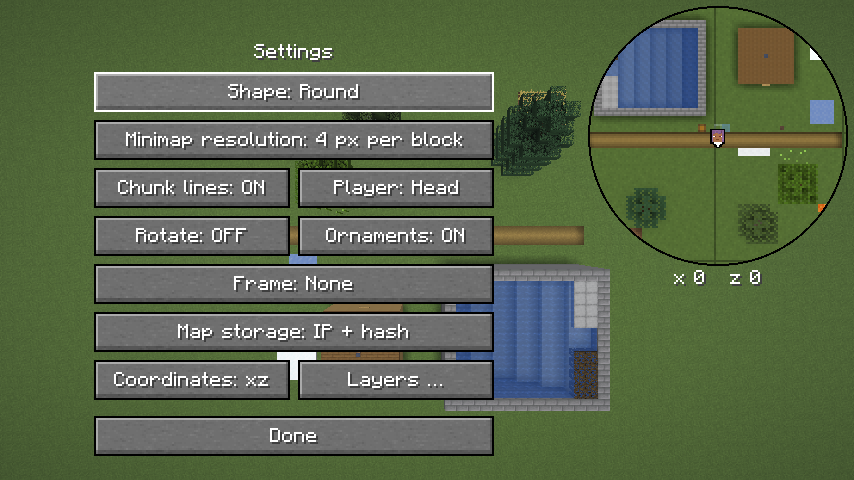
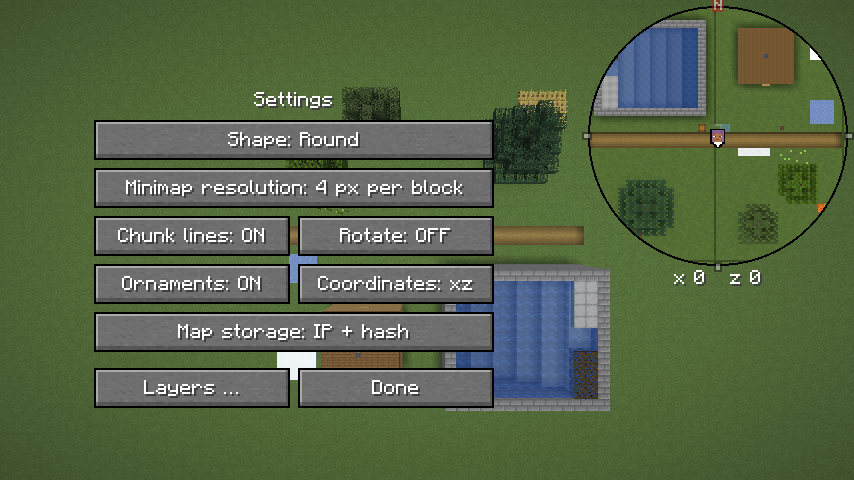
Doku, Bilder und Version 0.2.28 zu #105

diff --git a/docs/minimap.md b/docs/minimap.md
@@ -1,6 +1,6 @@
 ---
 title: Minimap
-description: Bedienung über das Menü hinter /hmap und das Untermenü „Einstellungen …“, Chunklinien, Drehen mit der Blickrichtung, Koordinaten unter der Minimap, der eigene Spieler in drei Darstellungen, Form, Lage und Grösse, Mitspieler, Bewegung zwischen zwei Ticks; wie der Mod die Minimap zeichnet, welcher Block oben liegt, Flächen aus dem Tesselator des Spiels, Pixel und Mittelung, Licht, Wasser, Blockentities, Decke, wann neu gezeichnet wird, was es kostet und was anders ist als top-north.
+description: Bedienung über das Menü hinter /hmap und das Untermenü „Einstellungen …“, das Aussehen per Klick auf Spieler und Marken, Chunklinien, Drehen mit der Blickrichtung, Koordinaten unter der Minimap, der eigene Spieler in drei Darstellungen, Form, Lage und Grösse, Mitspieler, Bewegung zwischen zwei Ticks; wie der Mod die Minimap zeichnet, welcher Block oben liegt, Flächen aus dem Tesselator des Spiels, Pixel und Mittelung, Licht, Wasser, Blockentities, Decke, wann neu gezeichnet wird, was es kostet und was anders ist als top-north.
 code:
   - src/main/java/com/nekyia/heroicmap/Minimap.java
   - src/main/java/com/nekyia/heroicmap/ChunkMaler.java
@@ -8,6 +8,7 @@ code:
   - src/main/java/com/nekyia/heroicmap/HeroicMap.java
   - src/main/java/com/nekyia/heroicmap/Einstellungen.java
   - src/main/java/com/nekyia/heroicmap/Anzeige.java
+  - src/main/java/com/nekyia/heroicmap/MinimapKlick.java
   - src/main/java/com/nekyia/heroicmap/Kartenblick.java
   - src/main/java/com/nekyia/heroicmap/Gitter.java
   - src/main/java/com/nekyia/heroicmap/Drehung.java
@@ -56,20 +57,21 @@ steht unter „Kosten“.
 Das Untermenü „Einstellungen …“ hält, was man selten ändert; das Hauptmenü
 bleibt so kurz. „Fertig“ führt zurück ins Menü:
 
-![Das Untermenü über der Szene des Gametests, die Minimap rund mit Chunklinien und den Koordinaten darunter; „Chunklinien“ neben „Spieler“, unten „Koordinaten“ neben „Ebenen …“](bilder/anzeige.png)
+![Das Untermenü über der Szene des Gametests, die Minimap rund mit Chunklinien, halben Marken auf dem Ring und den Koordinaten darunter; „Chunklinien“ neben „Drehen“, unten „Ebenen …“ neben „Fertig“](bilder/anzeige.png)
 
 | Einstellung | Vorgabe | tut |
 |---|---|---|
 | Form | eckig | eckig oder rund, siehe „Form“ |
 | Auflösung der Minimap | 2 px je Block | 1, 2, 4, 8 oder 16 Pixel je Block in den Texturen: wie fein sie höchstens zeichnet |
 | Chunklinien | aus | Linien je 16 Blöcke auf Minimap und Vollbildkarte, siehe „Chunklinien“ |
-| Spieler | Kopf | der eigene Spieler als Kopf mit Pfeil, nur Pfeil oder Kopf halb durchsichtig, siehe „Spieler“ |
 | Drehen | an | die Minimap dreht mit der Blickrichtung, siehe „Drehen“ |
 | Verzierungen | an | die Marken N, O, S, W des Rahmens, aus nur Bänder oder Ring, siehe [Rahmen](rahmen.md), „Verzierungen“ |
 | Koordinaten | xz | aus, `x z` oder `x y z` des Spielers unter der Minimap, siehe „Koordinaten“ |
-| Rahmen | biom | ein Skin um die Minimap, als Vorgabe nach dem Biom unter dem Spieler, siehe [Rahmen](rahmen.md) |
 | Ablage der Karten | IP + Hash | wie die Ordner der Welten heissen, siehe [Download](download.md), „Ablage“ |
 | Knopf „Ebenen …“ | – | je Ebene vom Server an oder aus, siehe [Ebenen](ebenen.md), „Umschalten“ |
+
+Den eigenen Spieler und den Rahmen stellt ein Klick auf die Minimap ein,
+nicht ein Knopf, siehe „Aussehen an der Minimap“.
 
 - **Zoom und Auflösung** sind getrennt. Der Zoom legt fest, wie viel
   Gegend die Minimap zeigt: bei 128 Einheiten Seite 128 Blöcke bei 1×,
@@ -86,7 +88,8 @@ bleibt so kurz. „Fertig“ führt zurück ins Menü:
 - **Lage und Grösse:** Das Menü dunkelt nicht ab, die Minimap im HUD bleibt
   sichtbar und ist weiss umrandet, rund mit einem Ring. Ziehen mit der
   linken oder rechten Taste verschiebt die ganze Minimap, etwa von rechts
-  oben nach links oben. Der weisse Griff sitzt an der Ecke, die zur Mitte des
+  oben nach links oben, auch wenn es auf dem Spieler oder einer Marke
+  beginnt. Der weisse Griff sitzt an der Ecke, die zur Mitte des
   Schirms zeigt, rund auf dem Ring in der Diagonale dorthin; ihn ziehen
   macht die Minimap grösser oder kleiner, die Ecke gegenüber bleibt
   stehen, zwischen 64 und 256 Einheiten des GUI (`Minimap.KLEINSTE`,
@@ -110,7 +113,8 @@ bleibt so kurz. „Fertig“ führt zurück ins Menü:
   (`Einstellungen.spalte`), im Untermenü ebenso. Im Hauptmenü teilen sich
   je zwei eine Zeile: „Minimap“ und „Zoom“, „Karte laden …“ und
   „Kartenliste …“, „Einstellungen …“ und „Fertig“; im Untermenü
-  „Drehen“ und „Verzierungen“, „Koordinaten“ und „Ebenen …“. So passen Menü und
+  „Chunklinien“ und „Drehen“, „Verzierungen“ und „Koordinaten“, „Ebenen …“
+  und „Fertig“. So passen Menü und
   Untermenü auch bei grossem GUI-Massstab auf den Schirm, bis 240
   Einheiten Höhe, etwa 1280 × 720 bei GUI-Massstab 3.
 - **Koordinaten:** Im Menü stehen über der Minimap `x` und `z` des Blocks
@@ -138,6 +142,40 @@ bleibt so kurz. „Fertig“ führt zurück ins Menü:
   Karte nach unten; der Pfeil kreist deshalb um Gier + 180° gedreht um den
   Kopf. So hat es der User gewünscht.
 - **Wo ein Block liegt,** sagt die [Projektion](projektion.md).
+
+## Aussehen an der Minimap
+
+Im Menü von `/hmap` und im Untermenü „Einstellungen …“ stellt man das
+Aussehen an der Minimap selbst ein, nicht über Knöpfe (`MinimapKlick`). So
+hat es der User gewünscht (mod#105); das Menü wird kürzer.
+
+- **Spieler:** Ein Klick auf den eigenen Spieler in der Mitte schaltet die
+  Darstellung weiter, Kopf, Pfeil, Halb, dann wieder Kopf, siehe „Spieler“.
+  Er trifft ein Quadrat um die Mitte mit der halben Seite des Kopfes plus
+  2 Einheiten, bei 128 Einheiten Seite 11 × 11.
+- **Marken:** Ein Klick auf eine der Marken N, O, S, W schaltet den Rahmen
+  weiter, in der Reihenfolge von `Skin.NAMEN`: Ohne, Biom, Grau, Holz,
+  Papier, Kompass, Uhr, Kartograph, dann wieder Ohne. Eine Marke trifft man
+  dort, wo die Minimap sie in diesem Frame gezeichnet hat, auch gedreht,
+  mindestens 9 × 9 Einheiten um ihre Mitte (`Minimap.ziel`). Die Bänder
+  sind kein Ziel; dort greift man wie bisher die Minimap.
+- **Ohne Marken** stehen sie im Menü trotzdem, halb deckend: mit dem
+  Schalter „Verzierungen“ aus und bei „ohne“, dort die von „grau“ auf dem
+  Umriss. So lässt sich der Rahmen immer wechseln. Siehe
+  [Rahmen](rahmen.md), „Im Menü“.
+- **Klick oder Ziehen** entscheidet erst das Loslassen: höchstens 3
+  Einheiten vom Drücken (`MinimapKlick.WEG`) und über demselben Ziel, mit
+  der linken Taste. Wandert die Maus weiter, verschiebt sie die Minimap,
+  und die steht bis dahin still. Der Griff geht vor, der Zoom bleibt ein
+  Knopf.
+- **Woran man es sieht:** Über einem Ziel zeigt der Zeiger die Hand
+  (`CursorTypes.POINTING_HAND`, belegt per javap in 26.3), ein Tooltip sagt,
+  was ein Klick tut und was jetzt gilt, darunter die Beschreibung; die
+  Marke unter der Maus nimmt ihr helles Bild `_aktiv`. Der Hinweis über den
+  Knöpfen des Menüs nennt beides.
+- **Gespeichert** wird beim Schliessen des Menüs wie jede Wahl dort.
+- **Geprüft** im Gametest `Bedienung` mit Klicks wie von Hand, siehe
+  [Entwicklung](entwicklung.md), „Gametests“.
 
 ## Chunklinien
 
@@ -267,8 +305,10 @@ im Debug-Bildschirm des Spiels (`Mth.floor`). So hat es der User gewünscht.
 Der eigene Spieler auf Minimap und Vollbildkarte, in einer von drei
 Darstellungen. So hat es der User gewünscht (mod#101).
 
-- **Schalter** „Spieler“ im Untermenü, neben „Chunklinien“: `Kopf`,
-  `Pfeil` oder `Halb`, Vorgabe `Kopf` (`Minimap.Darstellung`). Gespeichert
+- **Umschalten** mit einem Klick auf den Spieler in der Minimap im Menü,
+  siehe „Aussehen an der Minimap“: `Kopf`,
+  `Pfeil` oder `Halb`, Vorgabe `Kopf` (`Minimap.Darstellung`). Bis 0.2.27
+  war es der Schalter „Spieler“ im Untermenü. Gespeichert
   als `spieler` in `heroicmap.properties`, `kopf`, `pfeil` oder
   `durchsichtig`; ein anderer Wert gilt als Vorgabe. Er gilt für Minimap
   und Vollbildkarte.

diff --git a/docs/entwicklung.md b/docs/entwicklung.md
@@ -99,8 +99,8 @@ er den Server-Fall mit einer Zeile im Log, so auch in der CI.
 | Gametest | tut |
 |---|---|
 | `Anmeldung` | die Reihenfolge beim Login: Beim ersten Level gibt es den Spieler noch nicht, wohl aber die Verbindung des Levels, aus der `Downloads.server` liest, siehe [Download](download.md), „Ablage“ |
-| `Bilder` | baut eine Szene und nimmt die Minimap auf, danach das Menü und die Vollbildkarte aus einem Testsatz mit zwei Wegpunkten, das Untermenü „Einstellungen …“, jeden Rahmen eckig und rund und das Menü mit Rahmen, die drehende Minimap, das ganze Fenster bei 854 × 480 und 1280 × 720 mit der Seite im Verhältnis, die Szene `formen` mit Flächen, Kreis, Linie und Kartenschrift und der offenen Liste der Ebenen, die Szene `orte` mit Nadeln, einem Banner und ihren Namen, gleich gross auf zwei Stufen der Vollbildkarte, und „Unicode-Schrift erzwingen“, das die Generation der Kartenschrift hebt, zuletzt die selbst gezeichnete Karte der Szene, in der Einzelspielerwelt mit 2 px gewählt über die Knöpfe und den Umschalter, neben der Minimap, die als beschäftigt gilt, auch mit Chunklinien; mit `-Pbilder=<ordner>` landen die Bilder dort, siehe [Minimap](minimap.md), „Bilder“, und [Vollbildkarte](vollbildkarte.md), „Bild“; ein Banner mit Entwurf und Krone als Sprite um seinen Fuss, am Bildschirmfoto geprüft; ein Banner einer geheimen Ebene, dessen Sprite über den Kanal kommt, am Bildschirmfoto um seinen Fuss |
-| `Bedienung` | leert zu Beginn den Ordner der Einzelspielerwelt (`Bilder.leereWelt`), wie `Bilder`; das Menü und die Vollbildkarte mit echten Eingaben der Maus (`TestInput`): im Menü verschiebt Ziehen mit der linken wie der rechten Taste die ganze Minimap; auf der Karte verschiebt links ziehen den Inhalt, ein Linksklick öffnet kein Menü, ein Rechtsklick öffnet „Hierher teleportieren“, ein Klick darauf teleportiert; Wegpunkte setzen, ziehen und klicken auf Marken am Rand, Doppelklick, Wegpunkt am eigenen Standort, einen Kreis und eine Nadel vom Server und ein altes Rechteck anheften; eine Region und eine Linie aus Wegpunkten bauen, die Region per Doppelklick anheften und löschen; die Liste der Ebenen aufklappen, eine Ebene mit „An/Aus“ aus- und anschalten, auch per Doppelklick, ohne dass etwas angeheftet wird, per Doppelklick auf den Namen ganz anheften und lösen, zuklappen; Menü und Untermenü bei 1280 × 720 und GUI-Massstab 3; siehe [Minimap](minimap.md), „Bedienung“, [Vollbildkarte](vollbildkarte.md), „Bedienung“, und [Wegpunkte](wegpunkte.md), „Tests“ |
+| `Bilder` | baut eine Szene und nimmt die Minimap auf, danach das Menü und die Vollbildkarte aus einem Testsatz mit zwei Wegpunkten, das Untermenü „Einstellungen …“, jeden Rahmen eckig und rund und das Menü mit Rahmen, auch mit halben Marken und dem Tooltip, die drehende Minimap, das ganze Fenster bei 854 × 480 und 1280 × 720 mit der Seite im Verhältnis, die Szene `formen` mit Flächen, Kreis, Linie und Kartenschrift und der offenen Liste der Ebenen, die Szene `orte` mit Nadeln, einem Banner und ihren Namen, gleich gross auf zwei Stufen der Vollbildkarte, und „Unicode-Schrift erzwingen“, das die Generation der Kartenschrift hebt, zuletzt die selbst gezeichnete Karte der Szene, in der Einzelspielerwelt mit 2 px gewählt über die Knöpfe und den Umschalter, neben der Minimap, die als beschäftigt gilt, auch mit Chunklinien; mit `-Pbilder=<ordner>` landen die Bilder dort, siehe [Minimap](minimap.md), „Bilder“, und [Vollbildkarte](vollbildkarte.md), „Bild“; ein Banner mit Entwurf und Krone als Sprite um seinen Fuss, am Bildschirmfoto geprüft; ein Banner einer geheimen Ebene, dessen Sprite über den Kanal kommt, am Bildschirmfoto um seinen Fuss |
+| `Bedienung` | leert zu Beginn den Ordner der Einzelspielerwelt (`Bilder.leereWelt`), wie `Bilder`; das Menü und die Vollbildkarte mit echten Eingaben der Maus (`TestInput`): im Menü verschiebt Ziehen mit der linken wie der rechten Taste die ganze Minimap, auch vom Spieler aus; ein Klick auf den Spieler schaltet die Darstellung, einer auf eine Marke den Rahmen, auch gedreht, mit Verzierungen aus und ohne Rahmen auf den halben Marken, im Untermenü ebenso; ein Klick auf die Karte daneben schaltet nichts, Ziehen von einer Marke verschiebt nur, der Griff ändert nur die Grösse, der Zoom nur den Zoom; auf der Karte verschiebt links ziehen den Inhalt, ein Linksklick öffnet kein Menü, ein Rechtsklick öffnet „Hierher teleportieren“, ein Klick darauf teleportiert; Wegpunkte setzen, ziehen und klicken auf Marken am Rand, Doppelklick, Wegpunkt am eigenen Standort, einen Kreis und eine Nadel vom Server und ein altes Rechteck anheften; eine Region und eine Linie aus Wegpunkten bauen, die Region per Doppelklick anheften und löschen; die Liste der Ebenen aufklappen, eine Ebene mit „An/Aus“ aus- und anschalten, auch per Doppelklick, ohne dass etwas angeheftet wird, per Doppelklick auf den Namen ganz anheften und lösen, zuklappen; Menü und Untermenü bei 1280 × 720 und GUI-Massstab 3; siehe [Minimap](minimap.md), „Bedienung“, [Vollbildkarte](vollbildkarte.md), „Bedienung“, und [Wegpunkte](wegpunkte.md), „Tests“ |
 | `Blockentities` | Truhe, Tür, Schild und Kopf, im Einzelspieler und mit `-Peula` auf einem Server des Tests gesetzt und abgebaut wie ein Spieler, mit Rechts- und Linksklick; die Minimap zeigt sie ohne weiteres Zutun, verglichen am Bildschirmfoto an der Stelle des Blocks. Mit Sodium über `-Pzusatzmods`; siehe [Minimap](minimap.md), „Neu zeichnen“ |
 | `Spieler` | der eigene Spieler auf der Minimap als Kopf mit Pfeil, nur Pfeil und Kopf halb durchsichtig, je bei GUI-Massstab 1, 2 und 3, gedreht und ungedreht: der Pfeil waagrecht mittig, höchstens 0,5 px daneben, am Bildschirmfoto; mit `-Pbilder=<ordner>` die drei Darstellungen als Bild, siehe [Minimap](minimap.md), „Spieler“ |
 | `Messung` | nur mit `-Pmessung=<datei>`: Zeit je Chunk und Frametime mit und ohne Minimap, siehe [Minimap](minimap.md), „Kosten“ |

diff --git a/docs/rahmen.md b/docs/rahmen.md
@@ -1,6 +1,6 @@
 ---
 title: Rahmen
-description: Die Rahmen der Minimap als umschaltbare Skins - Wahl im Untermenü, die Vorgabe „biom“ nach dem Biom unter dem Spieler, die sechs festen Skins, ihre Dateien und Quellen, Bänder eckig und rund, die Marken N, O, S, W, genordet fest und gedreht mitdrehend, ihr Schalter, der Griff im Menü, Abstand zum Rand, Kosten und Bilder.
+description: Die Rahmen der Minimap als umschaltbare Skins - Wahl per Klick auf eine Marke im Menü, die Vorgabe „biom“ nach dem Biom unter dem Spieler, die sechs festen Skins, ihre Dateien und Quellen, Bänder eckig und rund, die Marken N, O, S, W, genordet fest und gedreht mitdrehend, ihr Schalter, der Griff im Menü, Abstand zum Rand, Kosten und Bilder.
 code:
   - src/main/java/com/nekyia/heroicmap/Skin.java
   - src/main/java/com/nekyia/heroicmap/Biom.java
@@ -8,6 +8,7 @@ code:
   - src/main/java/com/nekyia/heroicmap/Minimap.java
   - src/main/java/com/nekyia/heroicmap/Einstellungen.java
   - src/main/java/com/nekyia/heroicmap/Anzeige.java
+  - src/main/java/com/nekyia/heroicmap/MinimapKlick.java
   - src/main/java/com/nekyia/heroicmap/Drehung.java
   - src/test/java/com/nekyia/heroicmap/DrehungTest.java
   - src/main/resources/heroicmap.accesswidener
@@ -18,8 +19,8 @@ code:
 # Rahmen
 
 Um die Minimap kann ein Rahmen liegen, ein Skin aus dem Paket des
-Designers: Bänder in festen Farben und Marken für N, O, S und W. Die Wahl
-steht im Untermenü „Einstellungen …“; die Vorgabe ist „biom“, ein Rahmen,
+Designers: Bänder in festen Farben und Marken für N, O, S und W. Gewählt
+wird mit einem Klick auf eine Marke der Minimap im Menü; die Vorgabe ist „biom“, ein Rahmen,
 der mit dem Biom unter dem Spieler wechselt. „Ohne“ ist der dünne Umriss
 wie bisher. Die Vollbildkarte bekommt keinen Rahmen. Warum so:
 [0005](entscheidungen/0005-rahmen-als-skins.md) und
@@ -27,8 +28,11 @@ wie bisher. Die Vollbildkarte bekommt keinen Rahmen. Warum so:
 
 ## Wahl
 
-- **Wo:** Knopf „Rahmen“ im Untermenü „Einstellungen …“, siehe
-  [Minimap](minimap.md), „Bedienung“. Der Tooltip beschreibt den Skin.
+- **Wo:** ein Klick auf eine Marke N, O, S, W der Minimap im Menü von
+  `/hmap` oder im Untermenü „Einstellungen …“ schaltet zum nächsten Skin,
+  siehe [Minimap](minimap.md), „Aussehen an der Minimap“. Der Tooltip
+  nennt und beschreibt den Skin. Bis 0.2.27 war es der Knopf „Rahmen“ im
+  Untermenü.
 - **Vorgabe `biom`.** Gespeichert als `rahmen_wahl` in
   `heroicmap.properties`, nur wenn der Spieler den Rahmen selbst gewählt
   hat, auch „ohne“; sonst gilt die Vorgabe, auch wenn sie sich wieder
@@ -195,7 +199,8 @@ im Atlas des GUI; F3+T und Ressourcenpakete laden ihn neu:
 Der Rahmen zeigt die Himmelsrichtungen als Marken, genordet wie gedreht;
 Ornamente in den Ecken gibt es nicht. So hat es der User am 10.10.
 entschieden, siehe [0012](entscheidungen/0012-marken-statt-verzierungen.md).
-Ohne Rahmen gibt es keine, die Bilder gehören zum Skin.
+Ohne Rahmen gibt es keine, die Bilder gehören zum Skin; nur im Menü stehen
+dann die von „grau“, siehe „Im Menü“.
 
 - **Wo:** von der Mitte der Minimap in die Himmelsrichtung, auf der Mitte
   der Bänder, rund auf dem Kreis, eckig auf dem Quadrat (`Skin.marke`,
@@ -203,7 +208,7 @@ Ohne Rahmen gibt es keine, die Bilder gehören zum Skin.
   links, die linke obere Ecke bei `⌊p − w / 2 + 0,5⌋` (`Skin.lage`);
   gedreht wandern sie am Rahmen entlang, siehe „Drehen“.
 - **Bild:** fest je Richtung, N `norden`, S `marke`, O und W `marke_quer`
-  (`Skin.MARKE_JE_RICHTUNG`); im Menü `_aktiv`. Es dreht mit, siehe
+  (`Skin.MARKE_JE_RICHTUNG`); im Menü unter der Maus `_aktiv`. Es dreht mit, siehe
   „Drehen“.
 - **Reihenfolge:** Bänder, die Marken, `norden` zuletzt, im Menü darüber
   der Griff.
@@ -232,7 +237,28 @@ Der Schalter „Verzierungen“ im Untermenü „Einstellungen …“, in der Ze
 von „Drehen“, stellt die Marken an oder aus; gespeichert als
 `verzierungen` in `heroicmap.properties`, Vorgabe an. Aus zeigt der Rahmen
 nur seine Bänder oder den Ring, gedreht wie ungedreht. Der Griff im Menü
-bleibt, der Abstand zum Rand auch.
+bleibt, der Abstand zum Rand auch; im Menü stehen die Marken halb, siehe
+„Im Menü“.
+
+## Im Menü
+
+Ein Klick auf eine Marke wechselt den Rahmen, siehe [Minimap](minimap.md),
+„Aussehen an der Minimap“. Damit es immer eine gibt:
+
+- **Halbe Marken:** Zeigt der Rahmen keine, mit dem Schalter
+  „Verzierungen“ aus oder bei „ohne“, zeichnet das Menü sie zu 50 %
+  deckend, nur dort, nicht im HUD sonst (`Minimap.geister`). Mit Rahmen
+  dessen Marken an ihrem Ort, bei „ohne“ die von „grau“ auf der Mitte des
+  Umrisses, 1,5 Einheiten ausserhalb der Karte, auch gedreht.
+- **Über dem Umriss:** Das Menü zeichnet die halben Marken zuletzt, nach dem
+  weissen Umriss, der sonst durch sie liefe.
+- **Unter der Maus** nimmt die Marke ihr Bild `_aktiv`, die halbe dazu ganz
+  deckend.
+- **Am Rand des Schirms** kann bei „ohne“ eine halbe Marke um bis zu eine
+  Einheit angeschnitten sein: Der Abstand zum Rand ist dort 4 Einheiten,
+  siehe „Abstand zum Rand“, und gilt nur für das HUD.
+
+![Das Menü mit „uhr“ und Verzierungen aus: die Marken halb, N unter der Maus hell, der Tooltip zum Rahmen](bilder/rahmen-menue-halb.png)
 
 ## Abstand zum Rand
 
@@ -278,7 +304,8 @@ Geschätzt, nicht gemessen:
 ## Bilder
 
 Der Gametest `Bilder` nimmt jeden Rahmen eckig und rund bei 4 px auf,
-`rahmen-<skin>.png`, und das Menü mit `uhr`, siehe [Minimap](minimap.md),
+`rahmen-<skin>.png`, und das Menü mit `uhr`, dazu mit Verzierungen aus
+und der Maus auf N (`rahmen-menue-halb.png`), siehe [Minimap](minimap.md),
 „Bilder“.
 `rahmen-abstand.png` setzt die Bildschirmfotos `rahmen-biom-0` und
 `rahmen-uhr-0` dieses Gametests zusammen, aus einem Lauf auf main `49e4f3c` und

diff --git a/docs/index.md b/docs/index.md
@@ -18,8 +18,8 @@ einer Datei findet `git grep -l "<pfad>" docs/` ihre Seiten.
 - [Ebenen](ebenen.md): Ebenen vom Plugin empfangen, in Teilen je `version`, ihre Nadeln als Wappenschild mit Symbol und Namen, ihre Banner und ihre Flächen, Kreise, Linien und Kartenschrift auf Minimap und Vollbildkarte zeichnen, Grenzen und Kosten, und je Ebene im Menü umschalten.
 - [Wegpunkte](wegpunkte.md): Wegpunkte setzen und löschen, eigene Linien und Regionen aus Wegpunkten, Marken am Rand der Vollbildkarte, Klick zum Zentrieren, Doppelklick zum Anheften an die Minimap, auch für Regionen und Kreise vom Server, Grösse der Köpfe und Ablage in `wegpunkte.json`.
 - [Selbst gezeichnete Karte](selbst.md): die Wahl „Selbst“, wie der Mod die geladenen Chunks in eine eigene Karte zeichnet, auch im Einzelspieler, Wahl und Beenden, Massstab 1, 2 oder 4 px, wann gezeichnet wird, Kacheln als PNG und Pyramide.
-- [Rahmen](rahmen.md): die Rahmen der Minimap als umschaltbare Skins, die Vorgabe „biom“ nach dem Biom unter dem Spieler, Dateien und Quellen, Bänder eckig und rund, die Marken N, O, S, W, genordet fest und gedreht mitdrehend, ihr Schalter, der Griff im Menü, Abstand zum Rand.
-- [Minimap](minimap.md): Bedienung mit Untermenü „Einstellungen …“, Chunklinien, Drehen mit der Blickrichtung, Bewegung zwischen zwei Ticks, welcher Block oben liegt, Flächen aus dem Tesselator des Spiels, Pixel und Mittelung, Licht, Wasser, Blockentities, Decke, Neu zeichnen im Worker, Kosten, Bilder und was anders ist als `top-north`.
+- [Rahmen](rahmen.md): die Rahmen der Minimap als umschaltbare Skins, die Vorgabe „biom“ nach dem Biom unter dem Spieler, Dateien und Quellen, Bänder eckig und rund, die Marken N, O, S, W, genordet fest und gedreht mitdrehend, ihr Schalter, halbe Marken und der Griff im Menü, Abstand zum Rand.
+- [Minimap](minimap.md): Bedienung mit Untermenü „Einstellungen …“, Aussehen per Klick auf Spieler und Marken, Chunklinien, Drehen mit der Blickrichtung, Bewegung zwischen zwei Ticks, welcher Block oben liegt, Flächen aus dem Tesselator des Spiels, Pixel und Mittelung, Licht, Wasser, Blockentities, Decke, Neu zeichnen im Worker, Kosten, Bilder und was anders ist als `top-north`.
 
 ## Entwicklung
 

diff --git a/CHANGELOG.md b/CHANGELOG.md
@@ -4,6 +4,10 @@ What changed in the Heroic Map mod, one section per version, newest first.
 The release notes on GitHub and Modrinth come from here
 (`.github/notizen.sh`); write them in English.
 
+## 0.2.28
+
+- **Change the look right on the minimap.** In the `/hmap` menu and under "Settings …", click yourself on the minimap to switch between head, arrow and half see-through, and click one of the marks N, E, S, W to switch the frame. The buttons "Player" and "Frame" are gone. With ornaments off or without a frame, the menu shows the marks half see-through so you can still click them. Dragging still moves the minimap.
+
 ## 0.2.27
 
 - **Layers on the full map: the name is a heading, the button only switches.** Each layer shows its name with an "On"/"Off" button next to it. A click on the button turns the layer on or off and does nothing else; a double click on the name pins everything of the layer to the minimap, another one unpins it. Before, the double click went on the switch and made it flicker.
